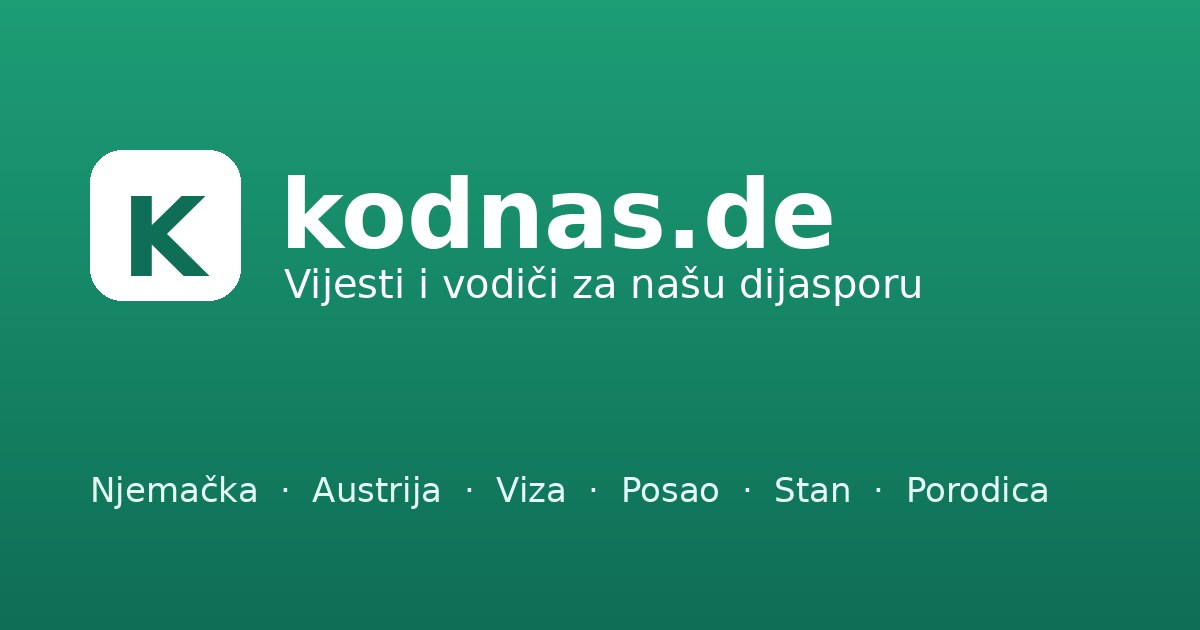
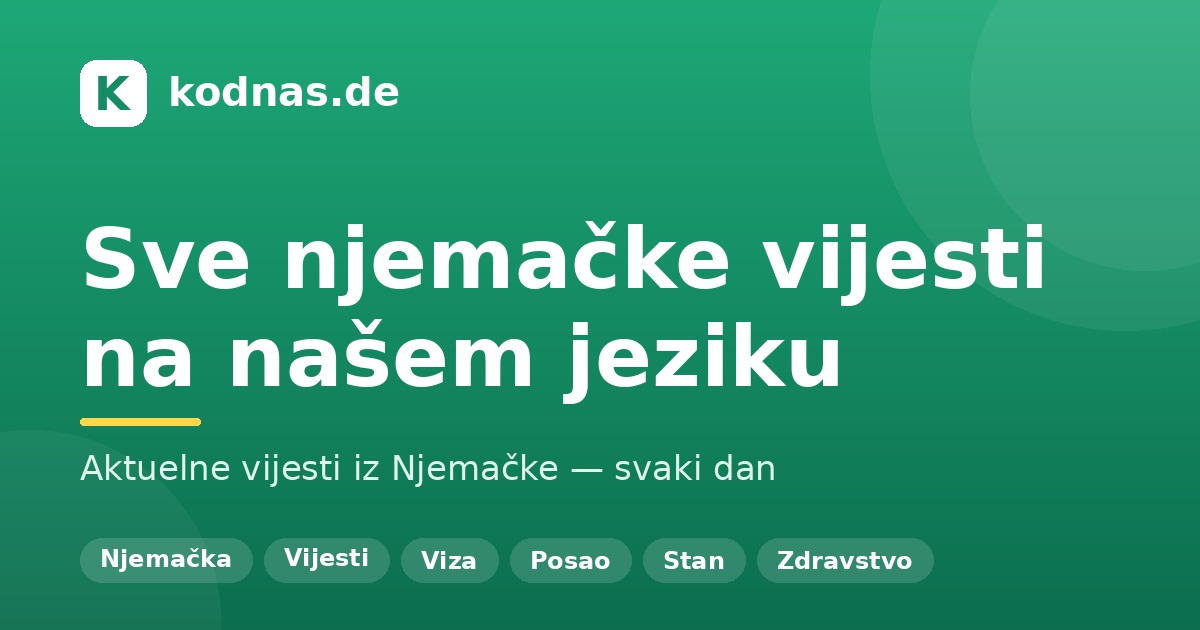
OGlook

diff --git a/app/layout.tsx b/app/layout.tsx
@@ -21,13 +21,13 @@ if (process.env.BING_SITE_VERIFICATION) {
 
 export const metadata: Metadata = {
   metadataBase: new URL(SITE),
-  title: "kodnas.de — Tvoj vodič kroz život vani",
+  title: "kodnas.de — Njemačke vijesti na našem jeziku",
   description:
-    "Portal za Bosance u Njemačkoj i Austriji. Vijesti, vodiči i praktične informacije o vizi, poslu, stanu, zdravstvu, porezu i penziji.",
+    "Sve važne vijesti iz Njemačke, na našem jeziku — aktuelno, svaki dan. Plus praktični vodiči za dijasporu: viza, posao, stan, zdravstvo, porez.",
   keywords: [
-    "dijaspora",
+    "njemačke vijesti na bosanskom",
+    "vijesti Njemačka dijaspora",
     "Bosanci u Njemačkoj",
-    "Bosanci u Austriji",
     "radna viza",
     "Aufenthaltstitel",
     "Elterngeld",
@@ -38,8 +38,8 @@ export const metadata: Metadata = {
     canonical: "/",
   },
   openGraph: {
-    title: "kodnas.de — Tvoj vodič kroz život vani",
-    description: "Portal za Bosance u Njemačkoj i Austriji.",
+    title: "Sve njemačke vijesti — na našem jeziku",
+    description: "Aktuelne vijesti iz Njemačke, svaki dan.",
     url: SITE,
     siteName: "kodnas.de",
     locale: "bs_BA",
@@ -48,8 +48,8 @@ export const metadata: Metadata = {
   },
   twitter: {
     card: "summary_large_image",
-    title: "kodnas.de — Tvoj vodič kroz život vani",
-    description: "Portal za Bosance u Njemačkoj i Austriji.",
+    title: "Sve njemačke vijesti — na našem jeziku",
+    description: "Aktuelne vijesti iz Njemačke, svaki dan.",
     images: ["/og-default.jpg"],
   },
   verification,